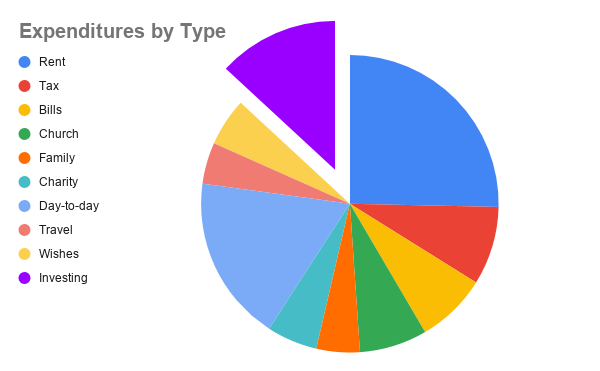
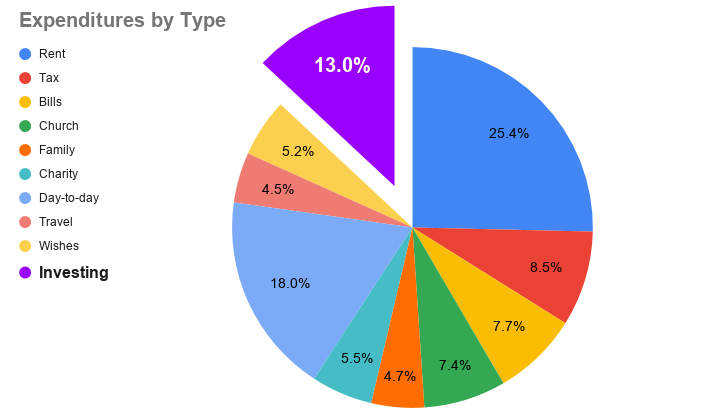
panic selling; exp by type %

diff --git a/_posts/2021-05-15-my-investing-journey-1-the-awakening.md b/_posts/2021-05-15-my-investing-journey-1-the-awakening.md
@@ -75,7 +75,7 @@ What you should keep in mind is they're all in the US so some things like tax ma
 ### Short recap
 
 **Asset**:
-Something that can be bought with the hope of future profit and/or income. Common examples include stocks, bonds, real estate, currencies and commodities like gold.
+Something that can be bought with the hope of future profit and/or income. Common examples include stocks, bonds, real estate and commodities like gold.
 
 **Liability**:
 Something that makes you lose money, such as debt or a car (especially a brand new Lamborghini).
@@ -135,14 +135,23 @@ and people want to buy more when prices go up.
 {:.text-center}
 
 **News**:
-It's a good idea to avoid daily financial news and trends while investing,
+It's a good idea to avoid daily financial news and trends while investing as
 a lot of it can be considered noise to a long-term investor.
 The media is in the business of publishing news that sells, i.e. news that stirs emotions.
 Some even suggest **going against the news**, for example, if the news says that the markets are crashing and hope is lost,
 then that is a great time to be buying, think a Black Friday sale.
 
+**Crash = sale** (not sell):
 A major key to remember is that investing (medium- to long-term) means going through **multiple market cycles** and their ups and downs.
 **Never panic sell**, which I did at the very beginning when I was clueless during the 2020 stock market crash.
+For example, I bought (fractional) shares of Apple and panic sold them 3 days later at a loss of 9%:
+
+![Panic selling Tesla stock in March 2020](/raw/img/blog/2021/investing/aapl-2020-panic-sell.png)
+
+If I continued to hold those same shares through the crash,
+14 months later they would now be worth 70% more than my cost to buy them.
+
+![Panic selling Tesla stock in March 2020](/raw/img/blog/2021/investing/aapl-after-panic-sell.png)
 
 **Time is the greatest asset**:
 Jack & Jill both invest $200 per month but Jack for 10 years (ages 25-35) while Jill for 30 years (ages 35-65).
@@ -230,8 +239,8 @@ Growth implies seeking higher volatility which means investments can go up stron
 Time horizon and risk tolerance are usually linked; a shorter time horizon means less risk can be taken.
 
 This link is largely due to **market cycles**.
-In the stock market, they have historically lasted 5-7 years on average.
-For cryptocurrencies, it currently appears to be 4 years (due to [Bitcoin halving](https://www.investopedia.com/bitcoin-halving-4843769)).
+For cryptocurrencies, it currently appears to be almost 4 years (due to [Bitcoin halving](https://www.investopedia.com/bitcoin-halving-4843769)).
+For the stock market, it's a lot less definitive and with many factors but let's say 10-20 years with a lot of uncertainty.
 Investing for shorter periods than these while the market is going up has the risk that one day the market will enter the decline phase of the cycle.
 
 For me right now in my mid-20s, my goal is growth.
@@ -340,7 +349,7 @@ Relatively low correlation to other asset classes.
 
 - **Cryptocurrencies** a.k.a. crypto:
 young, rapidly evolving, highest volatility, highest risk, highly speculative right now.
-Low (possibly lowest) correlation to other asset classes.
+Not enough history but probably low correlation to other asset classes.
 
 Other major asset classes include cash (that we all know), foreign currencies and valuable inventory like artwork and collectables.
 There is also one more which for this scope I'm classifying as part of stocks:
@@ -376,7 +385,7 @@ to have good inspiration in deciding allocations.
 If you're in the UK, there's a [UK-oriented view](https://monevator.com/9-lazy-portfolios-for-uk-passive-investors-2010/) that might also be worth reading.
 I started with David Swensen's Ivy League Portfolio and chose to have the asset classes and allocation percentages below.
 As a seeker of **growth** and acknowledging the US as the centre of the world's economy (at least for the foreseeable future),
-I've set the majority (roughly ⅔) of my stocks to be American companies.
+I've set the majority (~54%) of my stocks to be American companies.
 
 | Asset Class                                |       2020         |       2021         |
 |--------------------------------------------|--------------------|--------------------|
@@ -432,7 +441,7 @@ to:
 - view & plan my expenditures & income
 - plan the building of my emergency fund
 
-The first time I did this exercise I determined I can dedicate this portion in purple of my expenditures to investing:
+The first time I did this exercise I determined I could dedicate 13% of my expenditures (excluding saving for my emergency fund) to investing:
 
 ![Pie chart of my expenditures by type](/raw/img/blog/2021/investing/my-expenditures-by-type.png)
 
@@ -460,8 +469,8 @@ If you've found this insightful, **share** with a friend that needs to read this
 I have made a [Telegram channel](https://t.me/joinchat/0lHUGbU6PK0zYjA0) where I will share updates to my portfolio and notify of new articles I publish.
 Upcoming articles:
 
-- Stocks & Bonds
 - Commodities & Crypto
+- Stocks & Bonds
 
 {%comment%}
 Lastly, this blog is provided for **free and without ads**.
